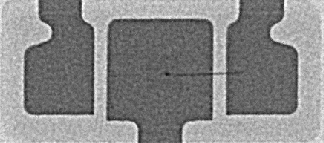
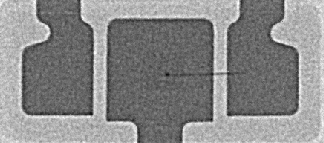
adj

diff --git a/imgtest/src/WireInspect.App/MainWindow.cs b/imgtest/src/WireInspect.App/MainWindow.cs
@@ -52,7 +52,7 @@ public sealed class MainWindow : Window
     bool _running, _loadingProducts;
 
     // controls
-    readonly Button _btnOpen, _btnRecent, _btnStart, _btnStop, _btnRerun, _btnClear, _btnReport, _btnNewProduct, _btnEditProduct;
+    readonly Button _btnOpen, _btnRecent, _btnStart, _btnStop, _btnRerun, _btnClear, _btnReport, _btnNewProduct, _btnEditProduct, _btnSettings;
     readonly ComboBox _productCombo = new() { MinWidth = 150 };
     readonly CheckBox _chkFollow = new() { Content = "自动显示最新", IsChecked = true };
     readonly TextBox _operator = new();
@@ -92,12 +92,13 @@ public sealed class MainWindow : Window
         _btnOpen = Icons.ToolButton("open", "导入文件夹");
         _btnRecent = Icons.ToolButton("recent", "最近文件夹", "重新打开最近用过的文件夹");
         _btnStart = Icons.ToolButton("start", "开始检测", "检测还没有结果的图片");
-        _btnStop = Icons.ToolButton("stop", "停止");
-        _btnRerun = Icons.ToolButton("rerun", "重新检测全部");
+        _btnStop = Icons.ToolButton("stop", "停止检测");
+        _btnRerun = Icons.ToolButton("rerun", "重新检测");
         _btnClear = Icons.ToolButton("clear", "清除标记", "清除当前图片 / 当前子文件夹 / 整个文件夹的所有缺陷标记");
         _btnReport = Icons.ToolButton("report", "保存报告", "整个文件夹的检测与复核结果导出为 CSV（汇总 + 导线明细）");
         _btnNewProduct = Icons.ToolButton("add", "新建产品", "在当前图片上框选一个单元，自动找线，生成产品配置");
         _btnEditProduct = Icons.ToolButton("edit", "编辑产品");
+        _btnSettings = Icons.ToolButton("gear", "设置", "运行参数（并行线程数）");
         Content = Build();
         Wire();
         LoadProducts(_cfg.Product);
@@ -131,16 +132,22 @@ public sealed class MainWindow : Window
         var logo = new Image
         {
             Source = new Bitmap(AssetLoader.Open(new Uri("avares://WireInspect/Assets/logo.png"))),
-            Stretch = Stretch.Uniform, Margin = new Thickness(0, 4, 0, 8),
+            Stretch = Stretch.Uniform, MaxHeight = 120, Margin = new Thickness(0, 4, 0, 8),
         };
+        var productRow = new DockPanel { Margin = new Thickness(0, 5, 0, 2) };
+        var productLabel = new TextBlock { Text = "产品", Foreground = Brush.Parse("#8fa8c8"), VerticalAlignment = VerticalAlignment.Center, Margin = new Thickness(2, 0, 0, 0) };
+        var productButtons = new StackPanel { Orientation = Orientation.Horizontal, Spacing = 14, Children = { _btnNewProduct, _btnEditProduct } };
+        DockPanel.SetDock(productButtons, Dock.Right);
+        productRow.Children.Add(productButtons);
+        productRow.Children.Add(productLabel);
         var side = new StackPanel { Spacing = 2, Margin = new Thickness(0, 0, 0, 6) };
-        foreach (var c in new Control[] { logo, Pair(_btnOpen, _btnRecent), Sep(), Pair(_btnStart, _btnStop), _btnRerun, Sep(), _btnReport, Sep(),
-                     Label("产品"), _productCombo, Pair(_btnNewProduct, _btnEditProduct), Sep(), Label("操作员"), _operator })
+        foreach (var c in new Control[] { logo, Pair(_btnOpen, _btnRecent, _btnReport), Sep(), Pair(_btnStart, _btnStop, _btnRerun), Sep(), _btnSettings, Sep(),
+                     productRow, _productCombo, Sep(), Label("操作员"), _operator })
         {
             c.HorizontalAlignment = HorizontalAlignment.Stretch;
             side.Children.Add(c);
         }
-        foreach (var b in new Button[] { _btnOpen, _btnRecent, _btnStart, _btnStop, _btnRerun, _btnClear, _btnReport, _btnNewProduct, _btnEditProduct })
+        foreach (var b in new Button[] { _btnOpen, _btnRecent, _btnStart, _btnStop, _btnRerun, _btnClear, _btnReport, _btnSettings, _btnNewProduct, _btnEditProduct })
             b.HorizontalContentAlignment = HorizontalAlignment.Left;
         _operator.Text = _cfg.Operator;
 
@@ -172,13 +179,12 @@ public sealed class MainWindow : Window
             modes.Children.Add(rb);
         }
         modes.Children.Add(new Border { Width = 16 });
-        modes.Children.Add(_chkMarks);
-        modes.Children.Add(new Border { Width = 16 });
-        _btnClear.VerticalAlignment = VerticalAlignment.Center;
-        modes.Children.Add(_btnClear);
-        _chkFollow.VerticalAlignment = VerticalAlignment.Center;
-        modes.Children.Add(_chkFollow);
+        var viewOptions = new Button { Content = "显示选项 ▾", Padding = new Thickness(8, 3) };
+        viewOptions.Flyout = new Flyout { Content = new StackPanel { Margin = new Thickness(10), Spacing = 8, Children = { _chkMarks, _chkFollow } } };
+        modes.Children.Add(viewOptions);
         var zoom = new StackPanel { Orientation = Orientation.Horizontal, Spacing = 4 };
+        _btnClear.VerticalAlignment = VerticalAlignment.Center;
+        zoom.Children.Add(_btnClear);
         foreach (var (t, fn) in new (string, Action)[] { ("适应窗口(0)", _viewer.Fit), ("1:1 (1)", _viewer.ActualSize),
                      ("放大", () => _viewer.Zoom(1.25)), ("缩小", () => _viewer.Zoom(0.8)) })
         {
@@ -313,6 +319,7 @@ public sealed class MainWindow : Window
         _btnReport.Click += async (_, _) => await SaveReport();
         _btnNewProduct.Click += async (_, _) => await OpenProductDialog(false);
         _btnEditProduct.Click += async (_, _) => await OpenProductDialog(true);
+        _btnSettings.Click += async (_, _) => await OpenSettings();
         _productCombo.SelectionChanged += (_, _) => { if (!_loadingProducts) SelectProduct(_productCombo.SelectedItem as string); };
         _operator.LostFocus += (_, _) =>
         {
@@ -454,6 +461,30 @@ public sealed class MainWindow : Window
         }
         UpdateEnabled();
         if (_current != null) RefreshDefects();
+    }
+
+    async Task OpenSettings()
+    {
+        var workers = new NumericUpDown { Minimum = 0, Maximum = 32, Increment = 1, Value = _cfg.Workers, Width = 140, FormatString = "0" };
+        var ok = new Button { Content = "确定", IsDefault = true, MinWidth = 90, HorizontalAlignment = HorizontalAlignment.Right };
+        var dlg = new Window
+        {
+            Title = "设置", SizeToContent = SizeToContent.WidthAndHeight, CanResize = false,
+            WindowStartupLocation = WindowStartupLocation.CenterOwner,
+            Content = new StackPanel
+            {
+                Margin = new Thickness(18), Spacing = 12,
+                Children =
+                {
+                    new TextBlock { Text = "并行检测线程数（0 = 自动，CPU 核数 - 1）" },
+                    workers, ok,
+                },
+            },
+        };
+        ok.Click += (_, _) => dlg.Close();
+        await dlg.ShowDialog(this);
+        _cfg.Workers = (int)(workers.Value ?? 0);
+        AppConfig.Update(c => c.Workers = _cfg.Workers);
     }
 
     async Task OpenProductDialog(bool edit)

diff --git a/imgtest/src/WireInspect.App/Icons.cs b/imgtest/src/WireInspect.App/Icons.cs
@@ -30,6 +30,8 @@ public static class Icons
                        new P("M9 6.5V3.5M12 6.5V3.5M15 6.5V3.5M9 20.5v-3M12 20.5v-3M15 20.5v-3M3.5 9h3M3.5 12h3M3.5 15h3M17.5 9h3M17.5 12h3M17.5 15h3")],
         ["add"] = [new C(12, 12, 9, "#e8f6ee", "#18a848"), new P("M12 7.5v9M7.5 12h9", null, "#18a848")],
         ["edit"] = [new P("M4 20h4L19.5 8.5l-4-4L4 16z", "#fff4cc", "#b8860b"), new P("M13.5 6.5l4 4")],
+        ["gear"] = [new C(12, 12, 4.5),
+                    new P("M12 2v3M12 19v3M2 12h3M19 12h3M4.9 4.9l2.2 2.2M16.9 16.9l2.2 2.2M19.1 4.9l-2.2 2.2M7.1 16.9l-2.2 2.2")],
     };
 
     public static Control Get(string name, double size = 18)
@@ -61,10 +63,10 @@ public static class Icons
         {
             Content = new StackPanel
             {
-                Orientation = Avalonia.Layout.Orientation.Horizontal, Spacing = 5,
-                Children = { Get(icon), new TextBlock { Text = text, VerticalAlignment = Avalonia.Layout.VerticalAlignment.Center } },
+                Orientation = Avalonia.Layout.Orientation.Horizontal, Spacing = 4,
+                Children = { Get(icon, 15), new TextBlock { Text = text, FontSize = 13, VerticalAlignment = Avalonia.Layout.VerticalAlignment.Center } },
             },
-            Padding = new Thickness(7, 4), Background = Brushes.Transparent, BorderThickness = new Thickness(0),
+            Padding = new Thickness(4, 4), Background = Brushes.Transparent, BorderThickness = new Thickness(0),
         };
         if (tip != null) ToolTip.SetTip(b, tip);
         return b;
